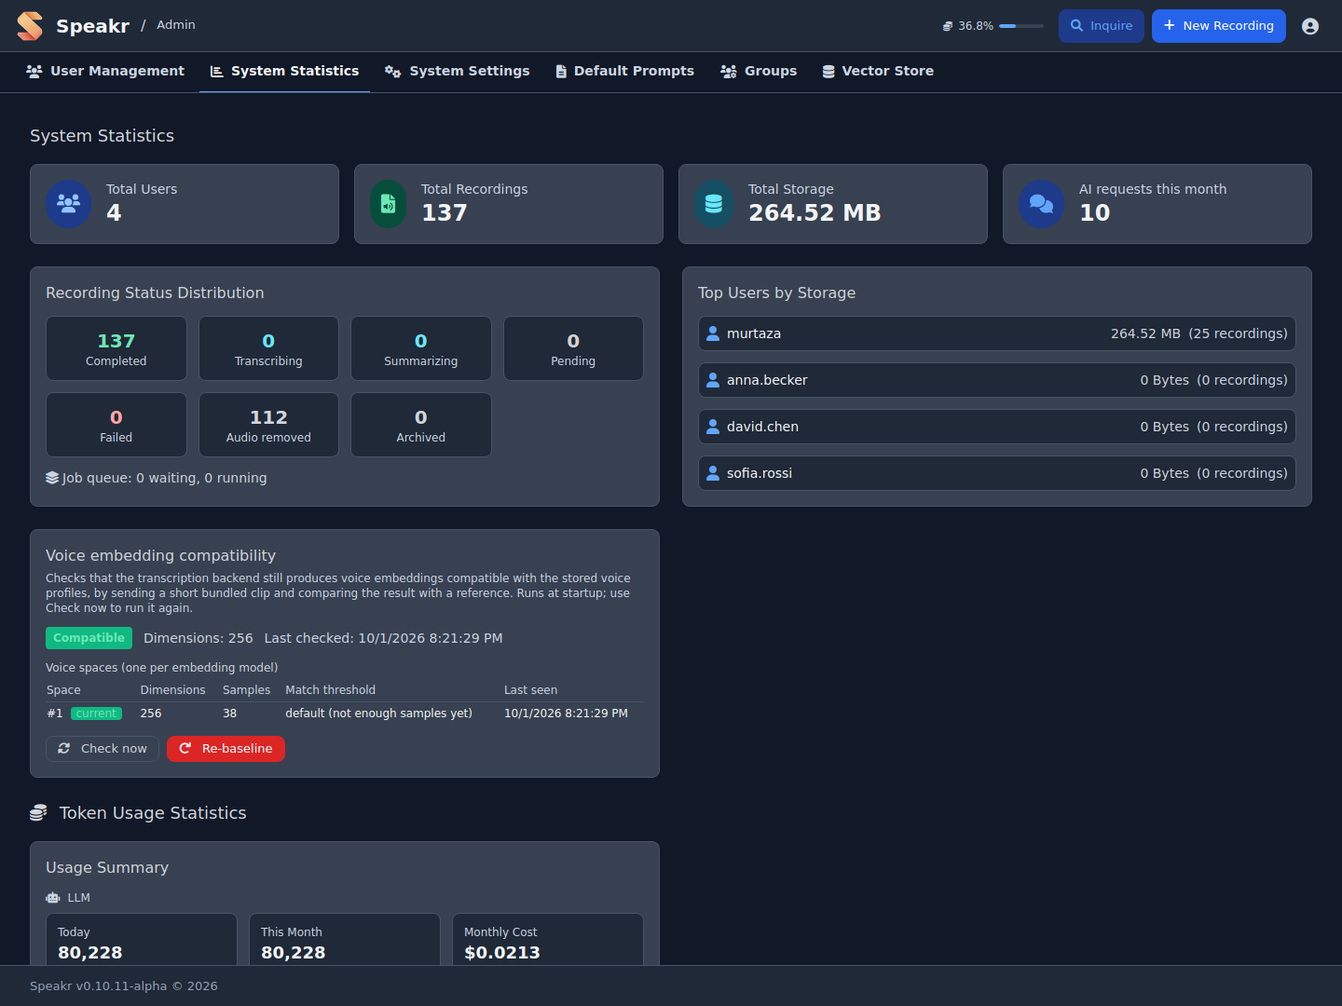
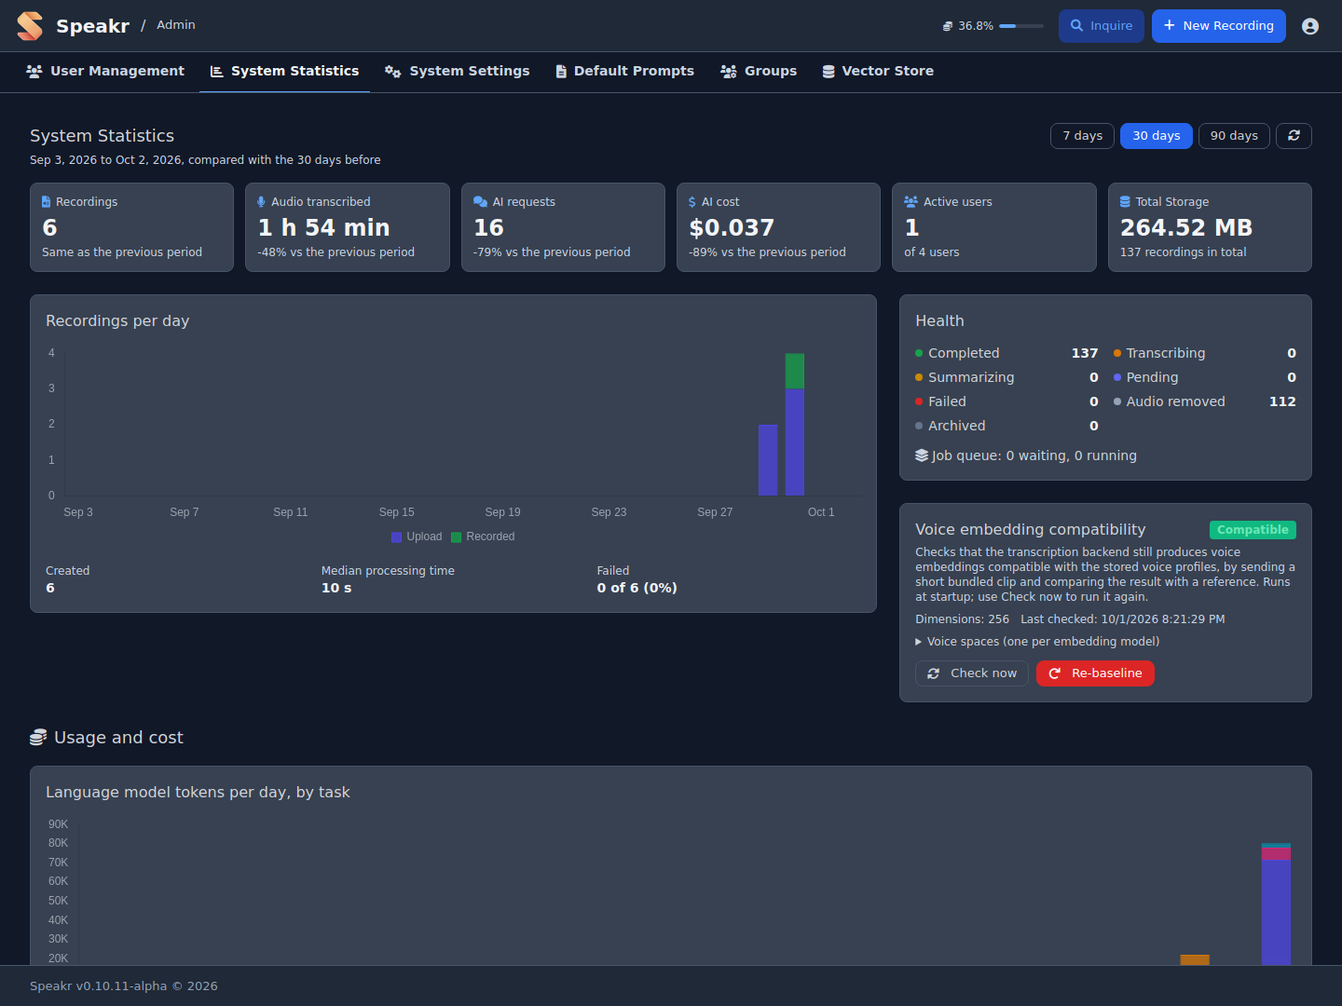
System Statistics docs, prompt-cache line and screenshots for the new layout
The prompt-cache figures (reads and writes in the period) are back, below
the language-model chart. docs/admin-guide/statistics.md describes the new
tab section by section, links elsewhere point at its new anchors, and the
token-budgets screenshot now frames the Users table.

diff --git a/templates/admin.html b/templates/admin.html
@@ -455,6 +455,9 @@
                         <div class="lg:col-span-2 bg-[var(--bg-tertiary)] p-4 rounded-lg border border-[var(--border-primary)] shadow-sm min-w-0">
                             <h5 class="text-md font-medium text-[var(--text-secondary)] mb-3">${t('adminDashboard.statsPage.llmTokensPerDay')}</h5>
                             <div class="h-64"><canvas id="statsOperationsChart"></canvas></div>
+                            <p v-if="overview && overview.usage.cache_reads" class="text-xs text-[var(--text-muted)] mt-2">
+                                <i class="fas fa-bolt mr-1 text-[var(--text-accent)]"></i><span v-text="t('adminDashboard.statsPage.cacheLine', { reads: formatCompact(overview.usage.cache_reads), writes: formatCompact(overview.usage.cache_writes) })"></span>
+                            </p>
                         </div>
                         <div class="bg-[var(--bg-tertiary)] p-4 rounded-lg border border-[var(--border-primary)] shadow-sm min-w-0">
                             <h5 class="text-md font-medium text-[var(--text-secondary)] mb-3">${t('adminDashboard.statsPage.minutesPerDay')}</h5>

diff --git a/src/services/admin_stats.py b/src/services/admin_stats.py
@@ -39,14 +39,17 @@ def _days(start, end):
 def _usage_window(start, end):
     """Tokens, cost and transcription seconds between two dates, inclusive."""
     tok = db.session.query(TokenUsage.operation_type, db.func.sum(TokenUsage.total_tokens),
-                           db.func.sum(TokenUsage.cost), db.func.sum(TokenUsage.request_count)) \
+                           db.func.sum(TokenUsage.cost), db.func.sum(TokenUsage.request_count),
+                           db.func.sum(TokenUsage.cached_tokens), db.func.sum(TokenUsage.cache_write_tokens)) \
         .filter(TokenUsage.date >= start, TokenUsage.date <= end).group_by(TokenUsage.operation_type).all()
     tr = db.session.query(db.func.sum(TranscriptionUsage.audio_duration_seconds),
                           db.func.sum(TranscriptionUsage.estimated_cost)) \
         .filter(TranscriptionUsage.date >= start, TranscriptionUsage.date <= end).first()
-    out = {'llm_cost': 0.0, 'embedding_cost': 0.0, 'ai_requests': 0,
+    out = {'llm_cost': 0.0, 'embedding_cost': 0.0, 'ai_requests': 0, 'cache_reads': 0, 'cache_writes': 0,
            'transcription_seconds': int(tr[0] or 0), 'transcription_cost': float(tr[1] or 0)}
-    for op, _tokens, cost, requests in tok:
+    for op, _tokens, cost, requests, cached, written in tok:
+        out['cache_reads'] += int(cached or 0)
+        out['cache_writes'] += int(written or 0)
         if token_tracker.is_embedding_op(op):
             out['embedding_cost'] += float(cost or 0)
         else:
@@ -253,6 +256,9 @@ def build_overview(days=30, today=None):
             'daily': list(daily_use.values()),
             'operations': [op for op, _ in sorted(operations.items(), key=lambda kv: -kv[1])],
             'by_model': model_rows,
+            # Prompt tokens served from a prefix cache, as the backend reports them.
+            'cache_reads': cur['cache_reads'],
+            'cache_writes': cur['cache_writes'],
             'monthly': _monthly_cost(12, today),
             'embeddings_local': embeddings_are_local(),
             'models_local': os.environ.get('MODELS_ARE_LOCAL', 'false').lower() == 'true',

diff --git a/tests/test_admin_stats_overview.py b/tests/test_admin_stats_overview.py
@@ -107,7 +107,7 @@ def test_tokens_split_by_task_with_embeddings_apart(world):
         before = build_overview(7, today)
         db.session.add_all([
             TokenUsage(user_id=world["admin"], date=today, operation_type="chat", total_tokens=500, cost=0.5,
-                       request_count=2, model_name="m-chat"),
+                       request_count=2, model_name="m-chat", cached_tokens=100, cache_write_tokens=40),
             TokenUsage(user_id=world["admin"], date=today, operation_type="embedding", total_tokens=9000, cost=0.1,
                        request_count=3, model_name="m-emb"),
             TranscriptionUsage(user_id=world["admin"], date=today, connector_type="asr_endpoint",
@@ -119,6 +119,8 @@ def test_tokens_split_by_task_with_embeddings_apart(world):
     assert u1["operations"].get("chat", 0) - u0["operations"].get("chat", 0) == 500
     assert "embedding" not in u1["operations"]
     assert u1["embedding_tokens"] - u0["embedding_tokens"] == 9000
+    assert after["usage"]["cache_reads"] - before["usage"]["cache_reads"] == 100
+    assert after["usage"]["cache_writes"] - before["usage"]["cache_writes"] == 40
     assert u1["minutes"] - u0["minutes"] == 20
     models = {(m["kind"], m["model"]): m for m in after["usage"]["by_model"]}
     assert models[("llm", "m-chat")]["requests"] == 2 and models[("embedding", "m-emb")]["tokens"] == 9000

diff --git a/docs/admin-guide/statistics.md b/docs/admin-guide/statistics.md
@@ -1,84 +1,60 @@
 # System Statistics
 
-The System Statistics tab transforms raw data into actionable insights about your Speakr instance. At a glance, you can see how many users you're serving, how many recordings they've created, how much storage they're consuming, and whether everything is processing smoothly.
+The System Statistics tab shows how the instance is used, whether processing is healthy, and what the models cost. Choose a period of 7, 30 or 90 days at the top right. The period ends today, and each headline figure is compared with the period of the same length before it. Days are calendar days in UTC.
 
 ![System Statistics](../assets/images/screenshots/admin-statistics.png)
 
-## Key Metrics Overview
+## Overview
 
-Four prominent cards at the top of the statistics page give you immediate insight into your system's scale. Total Users shows your current user base size, helping you understand your instance's reach. Total Recordings reveals the cumulative content in your system, while Total Storage presents the actual disk space consumed. Total Queries, when Inquire Mode is enabled, indicates how actively users are searching their recordings.
+Six cards sit at the top of the tab:
 
-These numbers tell a story about your instance's health and growth. A growing user count with proportional recording growth suggests healthy adoption. Storage growing faster than recordings might indicate users are uploading longer files. Query counts reveal whether users are finding value in the semantic search features.
+- **Recordings**: recordings created in the period.
+- **Audio transcribed**: hours and minutes of audio sent for transcription.
+- **AI requests**: language-model calls for titles, summaries, chat, events, speaker identification and Inquire. Embedding requests are not counted.
+- **AI cost**: language-model, embedding and transcription cost together. It reads "Local" when every model runs locally and costs nothing.
+- **Active users**: users who created at least one recording in the period, out of all users.
+- **Total storage**: audio and video kept on disk, without recordings whose audio was removed.
 
-## Recording Status Distribution
+The line under each figure gives the change against the previous period.
 
-The status distribution section breaks down your recordings into four critical states. Completed recordings are fully processed and ready for use - this should be the vast majority of your content. Processing recordings are currently being transcribed or analyzed. Pending recordings are queued and waiting their turn. Failed recordings encountered errors and need attention.
+## Activity
 
-In a healthy system, you'll see mostly completed recordings with perhaps a few processing at any given moment. A large number of pending recordings might indicate your system is overwhelmed or that background processing has stopped. Failed recordings always deserve investigation - they might reveal configuration issues, API problems, or corrupted files that users are trying to upload.
+**Recordings per day** stacks each day's new recordings by source: uploads (including the watch folder), recordings made in the browser, and merged recordings. Below the chart are the number created, the median processing time of the completed ones, and how many failed.
 
-## Storage Analysis
+## Health
 
-The "Top Users by Storage" section reveals who's consuming the most resources in your system. Each user is listed with their total storage consumption and recording count, giving you context about whether they have many small files or fewer large ones.
+The Health card lists every recording state now, across all time: completed, transcribing, summarizing, pending, failed, audio removed and archived. The job queue line shows jobs waiting and running, and the jobs that failed in the last seven days. The latest failed recordings follow, with their owner, date and error message.
 
-This information proves invaluable for capacity planning and user education. If one user consumes disproportionate storage, you might need to understand their use case better. Are they recording multi-hour meetings? Keeping everything forever? Understanding the why behind the numbers helps you make better policy decisions.
+A queue that keeps growing points to a stopped or overloaded background worker. A run of failures with the same error usually means an expired API key, an unreachable transcription service or a wrong model name.
 
-## Understanding Usage Patterns
+### Voice embedding compatibility
 
-Statistics aren't just numbers - they're insights waiting to be discovered. Sudden spikes in recordings might coincide with project kickoffs, academic semesters, or company initiatives. Storage growth that outpaces recording growth could indicate users are uploading longer content or higher quality audio files.
+This card checks that the transcription backend still produces voice embeddings that match the stored voice profiles. It sends a short bundled clip and compares the result with a reference. The check runs at startup; **Check now** runs it again. **Voice spaces** lists one space per embedding model seen, with its dimensions, samples and calibrated threshold. Profiles are compared only within their own space, so switching back to an earlier backend brings its profiles back. **Re-baseline** discards the reference and cannot be undone.
 
-Regular monitoring helps you spot trends before they become problems. If storage grows 10% monthly, you can project when you'll need to expand capacity. If failed recordings suddenly spike, you can investigate whether an API key expired or a service is down.
+## Usage and Cost
 
-## Capacity Planning
+**Language model tokens per day, by task** stacks each day's tokens by operation: chat, summarization, title generation, event extraction, speaker identification and Inquire. When the backend reports prompt caching, a line below the chart gives the tokens read from and written to the cache in the period. Cache reads appear only when the text-generation backend returns them in its responses; see [Prefix-Cache-Friendly Prompts](model-configuration.md#prefix-cache-friendly-prompts-prefix_cache_optimized_prompts).
 
-System statistics are your crystal ball for infrastructure needs. Storage growth trends tell you when you'll need more disk space. User growth patterns indicate when you might need to scale your server resources. Processing queues reveal whether your current setup can handle the workload.
+**Audio transcribed per day** and **Embedding tokens per day** are separate charts. Embedding volume is usually many times the language-model volume at a far lower price, so a shared axis would hide the language-model bars. A re-embed of the whole library shows up as one tall embedding bar.
 
-Use these insights proactively. If you see storage growing at 50GB monthly and you have 200GB free, you know you have about four months before needing intervention. This lead time lets you budget for upgrades, plan migrations, or implement retention policies before hitting critical limits.
+**Cost per month** covers the last twelve calendar months, stacked by language model, embedding and transcription.
 
-## Token Usage Statistics
-
-The Token Usage section provides visibility into LLM API consumption across your instance. Two cards split usage between **LLM operations** (title generation, summarization, chat, event extraction) and **embeddings** (Inquire mode), since they typically come from different providers and the embedding cost is otherwise easy to miss.
-
-**Per-Operation Breakdown**: LLM token usage is broken down by operation type so you can see where the spend is going. Title generation, summarization, chat, and event extraction each get their own line with input tokens, output tokens, and estimated cost. Embedding usage is shown as a separate card with its own daily/monthly chart, so a model swap or a re-embed-all run is visible without polluting the LLM-side numbers. This separation matters because the embedding API price (per million tokens) is usually orders of magnitude lower than chat-completion pricing, and mixing them makes both numbers harder to read.
-
-**Daily and Monthly Charts**: Interactive charts display token consumption trends over the last 30 days and 12 months for both LLM and embedding usage. These visualisations help identify usage patterns and predict future costs.
-
-**Per-User Breakdown**: A detailed table shows each user's monthly token consumption alongside their budget limit (if set). Progress bars indicate how much of their budget has been used:
-
-- Green: Under 80% of budget
-- Yellow: Between 80-100% (warning zone)
-- Red: At or over 100% (blocked)
-
-**Prompt Cache Reads**: The LLM card also reports prompt-cache activity for the current month (and today): **cache reads** are input tokens that the model served from a prefix cache instead of recomputing, and **writes** are tokens written into that cache. These figures only appear when the text-generation backend reports them in its API response. They are most useful alongside the `PREFIX_CACHE_OPTIMIZED_PROMPTS` option on a self-hosted backend with prefix caching, where the summary call reuses the transcript that the title call already prefilled. On hosted APIs that do not report cached tokens, the figure stays at zero even if caching is happening upstream. See [Prefix-Cache-Friendly Prompts](model-configuration.md#prefix-cache-friendly-prompts-prefix_cache_optimized_prompts) for how to enable this and what flags your server needs.
-
-**Cost Tracking**: When using OpenRouter or other providers that return cost information, the statistics include estimated costs based on actual API responses. For embeddings, the cost is calculated from the configured per-million-token price for the active embedding provider. This helps with budgeting and identifying high-cost operations.
-
-Use token statistics to identify heavy users, validate budget allocations, and forecast API costs. If certain users consistently hit their limits, you may need to increase their budgets or investigate their usage patterns. See [Token Budget Management](user-management.md#token-budget-management) for setting individual user limits.
-
-## Transcription Usage Statistics
-
-The Transcription Usage section provides visibility into speech-to-text API consumption across your instance. This is separate from token usage and tracks audio transcription specifically.
-
-**Summary Cards**: Four cards at the top show:
-
-- **Today's Minutes**: Transcription minutes used today across all users
-- **This Month**: Total minutes transcribed in the current calendar month
-- **Monthly Cost**: Estimated costs based on connector pricing (OpenAI Whisper/Transcribe charges, $0 for self-hosted ASR)
-- **Budget Warnings**: Count of users approaching (80%+) or exceeding (100%) their transcription budgets
-
-**Per-User Breakdown**: A detailed list shows each user's monthly transcription usage alongside their budget limit (if set). Progress bars indicate budget consumption:
-
-- Green: Under 80% of budget
-- Yellow: Between 80-100% (warning zone)
-- Red: At or over 100% (blocked from new transcriptions)
-
-**Cost Estimation**: The system calculates estimated costs based on the transcription connector used:
+**Cost by model** lists every model used in the period with its requests, its volume (tokens, or minutes for transcription) and its cost. Language-model and embedding costs come from the provider's response where it reports one, such as OpenRouter, and otherwise from the configured price. Transcription cost is estimated from the connector:
 
 - OpenAI Whisper API: $0.006 per minute
 - OpenAI Transcribe (gpt-4o-transcribe): $0.006 per minute
 - OpenAI Transcribe (gpt-4o-mini-transcribe): $0.003 per minute
-- Self-hosted ASR endpoints: $0 (no external API costs)
+- Self-hosted ASR endpoints: $0
 
-Use transcription statistics to monitor usage patterns, identify heavy users, and validate budget allocations. Organizations using cloud transcription services can forecast costs accurately, while those with self-hosted ASR can track capacity utilization. See [Transcription Budget Management](user-management.md#transcription-budget-management) for setting individual user limits.
+## Users
+
+The Users table has one row per user: recordings, storage, date of the last recording, and the tokens, transcription minutes and cost of the current calendar month. Monthly figures follow the calendar month whatever period is selected, because budgets reset each month. When a user has a budget, a bar shows how much of it is used:
+
+- Green: under 80% of the budget
+- Yellow: 80% to 100%; a warning icon appears next to the name
+- Red: at or over 100%; the user is blocked until the next month
+
+Click a column heading to sort by it. See [Token Budget Management](user-management.md#token-budget-management) and [Transcription Budget Management](user-management.md#transcription-budget-management) for setting the limits.
 
 ---
 

diff --git a/docs/admin-guide/vector-store.md b/docs/admin-guide/vector-store.md
@@ -53,13 +53,13 @@ The processing system is designed to be resilient. If processing fails for a spe
 
 The **Re-embed all** button at the top of the Vector Store tab clears every stored embedding and queues every recording for re-processing through the current embedding configuration. Use it after changing `EMBEDDING_MODEL`, switching from local to API-mode (`EMBEDDING_BASE_URL`), or changing `EMBEDDING_DIMENSIONS`, since old vectors generated by the previous configuration cannot be compared meaningfully against new query vectors.
 
-A confirmation modal appears before the action runs. Re-embedding a large library is bandwidth-intensive when API-mode is configured (every chunk goes back to the embedding provider) and CPU-intensive in local mode, so plan for the workload. Embedding token usage from the run shows up on the Statistics tab's separate embedding card so you can attribute the cost cleanly.
+A confirmation modal appears before the action runs. Re-embedding a large library is bandwidth-intensive when API-mode is configured (every chunk goes back to the embedding provider) and CPU-intensive in local mode, so plan for the workload. Embedding token usage from the run shows up in the Statistics tab's embedding chart, apart from the language-model tokens.
 
 If only a subset of recordings is affected by the configuration change (for example, you re-uploaded one folder), reprocessing those recordings individually is more efficient than the global re-embed.
 
 ## Embedding Token Tracking
 
-The Vector Store tab also shows embedding API token usage and estimated cost when API-mode is configured (`EMBEDDING_BASE_URL` is set). This is tracked separately from LLM operations because embedding pricing is typically much lower per token but request volume is much higher (every chunk of every recording is one or more requests). The same numbers feed the dedicated embedding card on the Statistics tab — see [System Statistics](statistics.md#token-usage-statistics) for the per-day and per-month breakdown.
+The Vector Store tab also shows embedding API token usage and estimated cost when API-mode is configured (`EMBEDDING_BASE_URL` is set). This is tracked separately from LLM operations because embedding pricing is typically much lower per token but request volume is much higher (every chunk of every recording is one or more requests). The same numbers feed the embedding chart, the monthly cost and the cost by model on the Statistics tab; see [System Statistics](statistics.md#usage-and-cost).
 
 ## Optimizing Performance
 

diff --git a/docs/features.md b/docs/features.md
@@ -328,7 +328,7 @@ Monitor and control LLM API consumption with per-user token tracking and budget 
 
 **Per-User Budgets**: Set monthly token limits for individual users to control costs. Users see their remaining budget in the interface and receive warnings at 80% consumption. Once a budget is exhausted, AI operations are blocked until the next month.
 
-**Admin Dashboard**: View detailed token statistics including daily trends, monthly totals, and per-user breakdowns. Cost tracking is available when using OpenRouter or other providers that return cost information. See the [admin guide](admin-guide/statistics.md#token-usage-statistics) for details.
+**Admin Dashboard**: System Statistics shows tokens per day by task, cost per month and per model, and each user's usage against the budget. Cost tracking is available when using OpenRouter or other providers that return cost information. See the [admin guide](admin-guide/statistics.md#usage-and-cost) for details.
 
 ### Transcription Usage Tracking & Budgets
 
@@ -338,7 +338,7 @@ Monitor and control speech-to-text API consumption separately from LLM tokens. T
 
 **Cost Estimation**: The system calculates estimated transcription costs based on the connector used - $0.006/minute for OpenAI Whisper, $0.003-$0.006/minute for OpenAI Transcribe models, and $0 for self-hosted ASR endpoints. This helps organizations forecast costs and identify heavy users.
 
-**Admin Dashboard**: View transcription statistics including today's usage, monthly totals, estimated costs, and per-user breakdowns with budget status indicators. See the [admin guide](admin-guide/statistics.md#transcription-usage-statistics) for details.
+**Admin Dashboard**: System Statistics shows minutes transcribed per day, estimated costs, and each user's minutes against the budget. See the [admin guide](admin-guide/statistics.md#usage-and-cost) for details.
 
 ### Flexible Configuration
 

diff --git a/docs/admin-guide/user-management.md b/docs/admin-guide/user-management.md
@@ -39,7 +39,7 @@ Control LLM costs by setting monthly token budgets for individual users. When cr
 - **Budget Reset**: Token counts reset automatically at the start of each calendar month
 - **No Limit**: Leave the budget field empty for unlimited usage
 
-Token budgets are set in increments of 10,000 tokens with a minimum of 100,000. The budget covers all AI operations including summarization, chat, title generation, and event extraction. View detailed token usage statistics in the [System Statistics](statistics.md#token-usage-statistics) section.
+Token budgets are set in increments of 10,000 tokens with a minimum of 100,000. The budget covers all AI operations including summarization, chat, title generation, and event extraction. View detailed token usage statistics in the [System Statistics](statistics.md#users) users table.
 
 ### Transcription Budget Management
 
@@ -52,7 +52,7 @@ Control transcription costs by setting monthly transcription budgets for individ
 - **Budget Reset**: Transcription minutes reset automatically at the start of each calendar month
 - **No Limit**: Leave the budget field empty for unlimited transcription usage
 
-Transcription budgets are set in minutes with a minimum of 10 minutes. The budget covers all transcription operations regardless of which connector is used (OpenAI Whisper, OpenAI Transcribe, or self-hosted ASR). View detailed transcription usage statistics in the [System Statistics](statistics.md#transcription-usage-statistics) section.
+Transcription budgets are set in minutes with a minimum of 10 minutes. The budget covers all transcription operations regardless of which connector is used (OpenAI Whisper, OpenAI Transcribe, or self-hosted ASR). View detailed transcription usage statistics in the [System Statistics](statistics.md#users) users table.
 
 **Cost Tracking**: The system tracks estimated costs based on the transcription connector used:
 

diff --git a/docs/admin-guide/model-configuration.md b/docs/admin-guide/model-configuration.md
@@ -467,8 +467,8 @@ off by default on most backends. The settings below are for vLLM; other servers
   hits in the API response when it is *also* started with
   `--enable-prompt-tokens-details`, which defaults to off. With that flag set,
   each response includes `usage.prompt_tokens_details.cached_tokens`, which
-  Speakr records and displays in the admin dashboard under **System Statistics →
-  Token Usage** as "Cache reads". Without it, caching still works, but the
+  Speakr records and shows in the admin dashboard under **System Statistics →
+  Usage and Cost**, in the prompt-cache line below the language-model chart. Without it, caching still works, but the
   dashboard shows zero cache reads because the server never reports them. You can
   confirm caching independently from vLLM's `/metrics` endpoint, which exposes
   `vllm:prefix_cache_hits_total` and `vllm:prompt_tokens_cached_total` regardless
